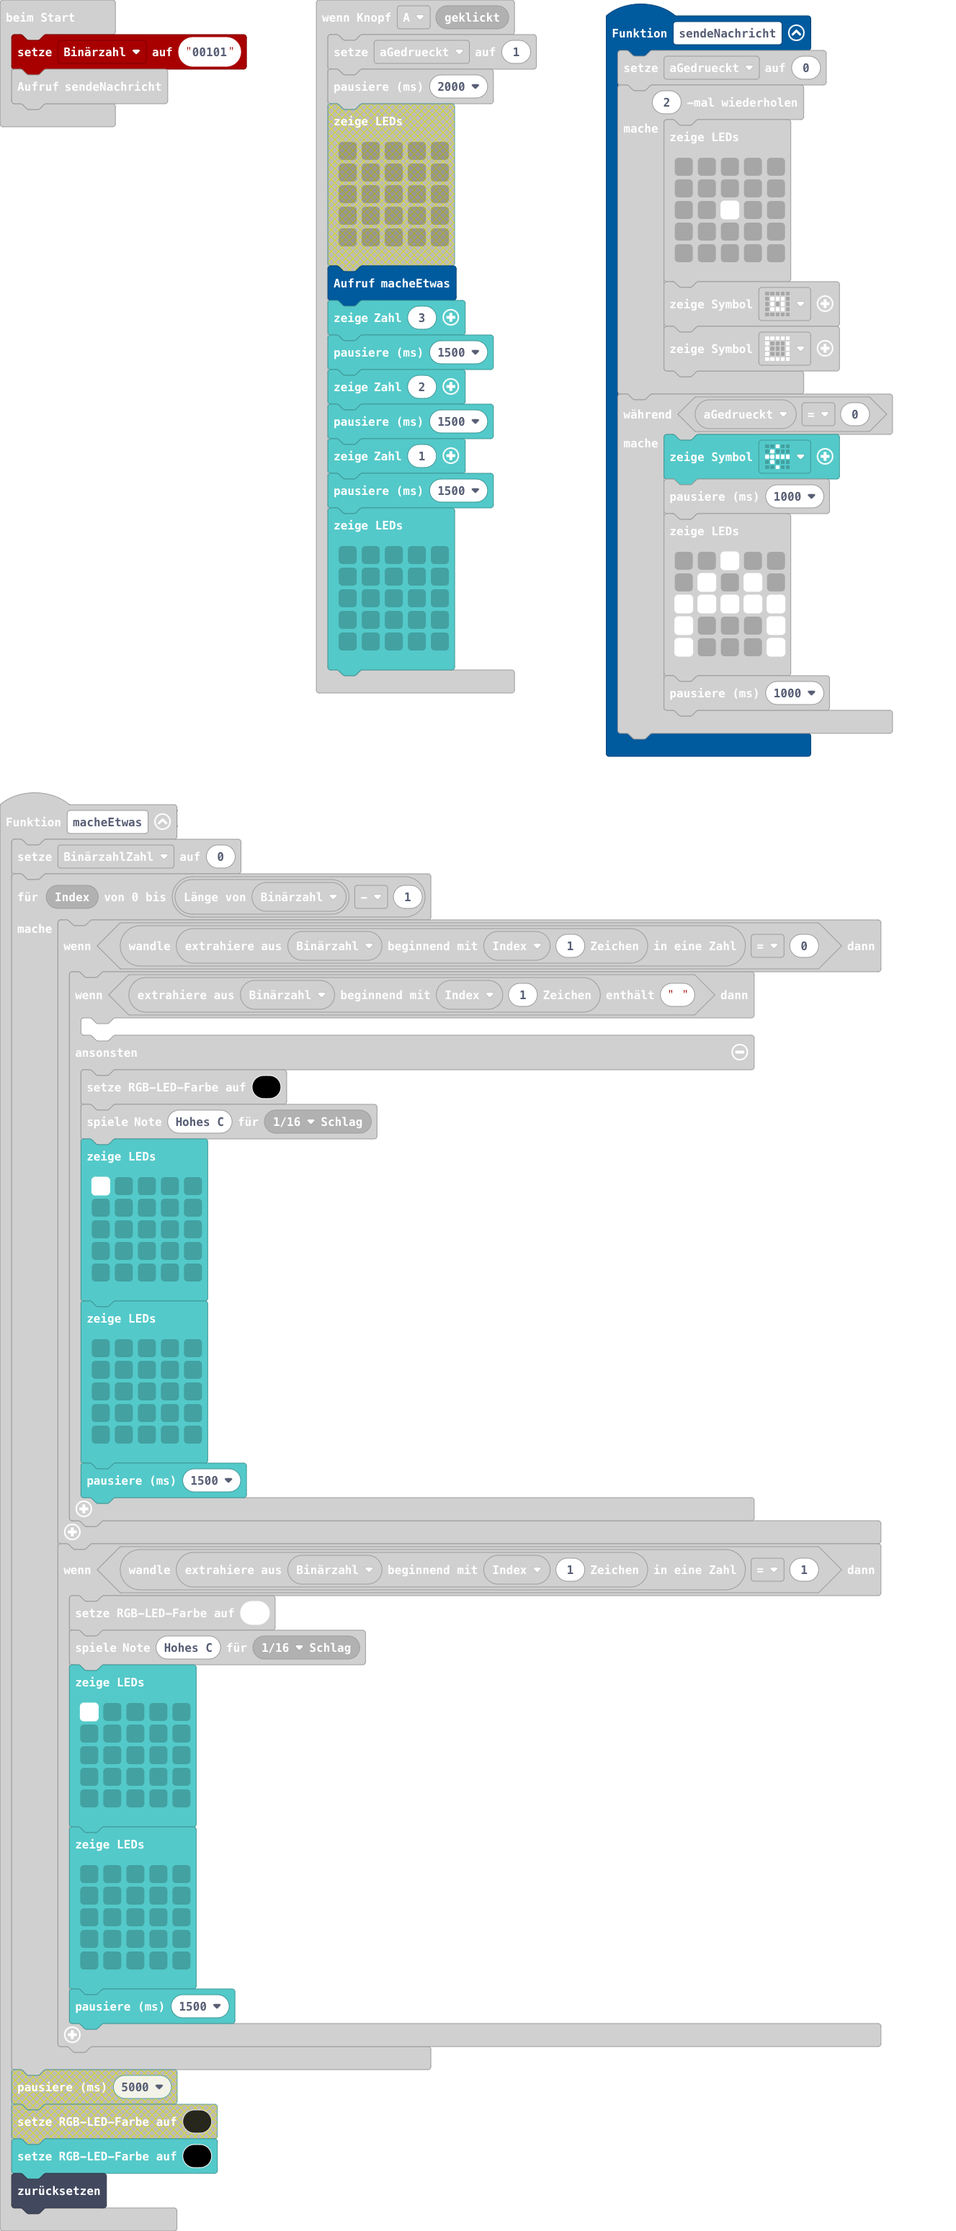
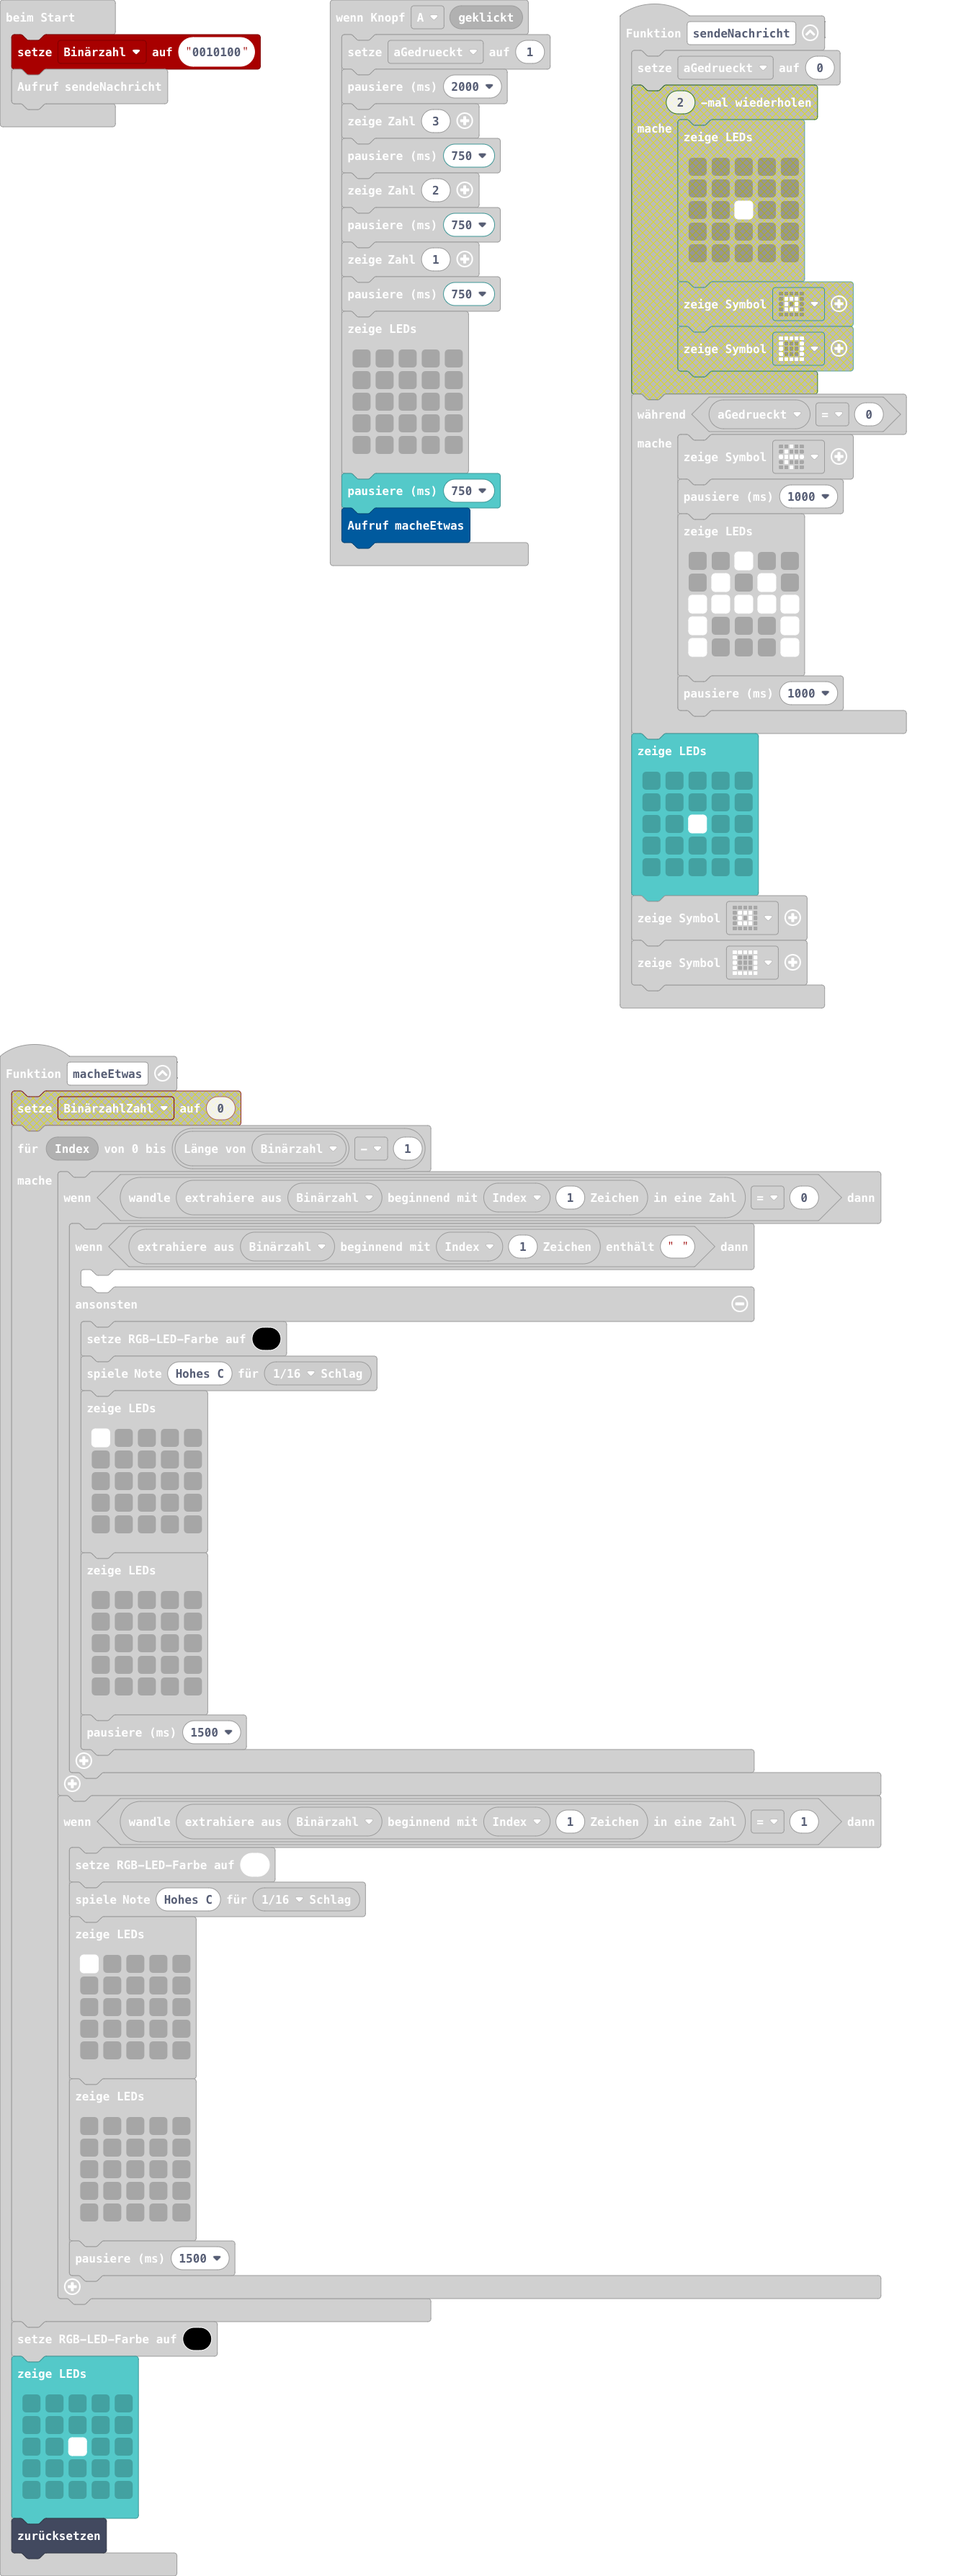
Aktualisiere main.blocks, main.ts

Changed region(s): [[0.0, 0.0, 0.9578, 0.9919], [0.309, 0.0, 0.587, 0.31], [0.0, 0.0, 0.2781, 0.062]]

diff --git a/main.ts b/main.ts
@@ -1,5 +1,4 @@
 function macheEtwas () {
-    BinärzahlZahl = 0
     for (let Index = 0; Index <= Binärzahl.length - 1; Index++) {
         if (parseFloat(Binärzahl.substr(Index, 1)) == 0) {
             if (Binärzahl.substr(Index, 1).includes(" ")) {
@@ -45,17 +44,24 @@ function macheEtwas () {
         }
     }
     basic.setLedColor(0x000000)
+    basic.showLeds(`
+        . . . . .
+        . . . . .
+        . . # . .
+        . . . . .
+        . . . . .
+        `)
     control.reset()
 }
 input.onButtonEvent(Button.A, input.buttonEventClick(), function () {
     aGedrueckt = 1
     basic.pause(2000)
     basic.showNumber(3)
-    basic.pause(1500)
+    basic.pause(750)
     basic.showNumber(2)
-    basic.pause(1500)
+    basic.pause(750)
     basic.showNumber(1)
-    basic.pause(1500)
+    basic.pause(750)
     basic.showLeds(`
         . . . . .
         . . . . .
@@ -63,21 +69,20 @@ input.onButtonEvent(Button.A, input.buttonEventClick(), function () {
         . . . . .
         . . . . .
         `)
+    basic.pause(750)
     macheEtwas()
 })
 function sendeNachricht () {
     aGedrueckt = 0
-    for (let index = 0; index < 2; index++) {
-        basic.showLeds(`
-            . . . . .
-            . . . . .
-            . . # . .
-            . . . . .
-            . . . . .
-            `)
-        basic.showIcon(IconNames.SmallSquare)
-        basic.showIcon(IconNames.Square)
-    }
+    basic.showLeds(`
+        . . . . .
+        . . . . .
+        . . # . .
+        . . . . .
+        . . . . .
+        `)
+    basic.showIcon(IconNames.SmallSquare)
+    basic.showIcon(IconNames.Square)
     while (aGedrueckt == 0) {
         basic.showIcon(IconNames.ArrowWest)
         basic.pause(1000)
@@ -92,9 +97,8 @@ function sendeNachricht () {
     }
 }
 let aGedrueckt = 0
-let BinärzahlZahl = 0
 let Binärzahl = ""
-Binärzahl = "00101"
+Binärzahl = "0010100"
 sendeNachricht()
 basic.forever(function () {
     if (input.buttonIsPressed(Button.A)) {
